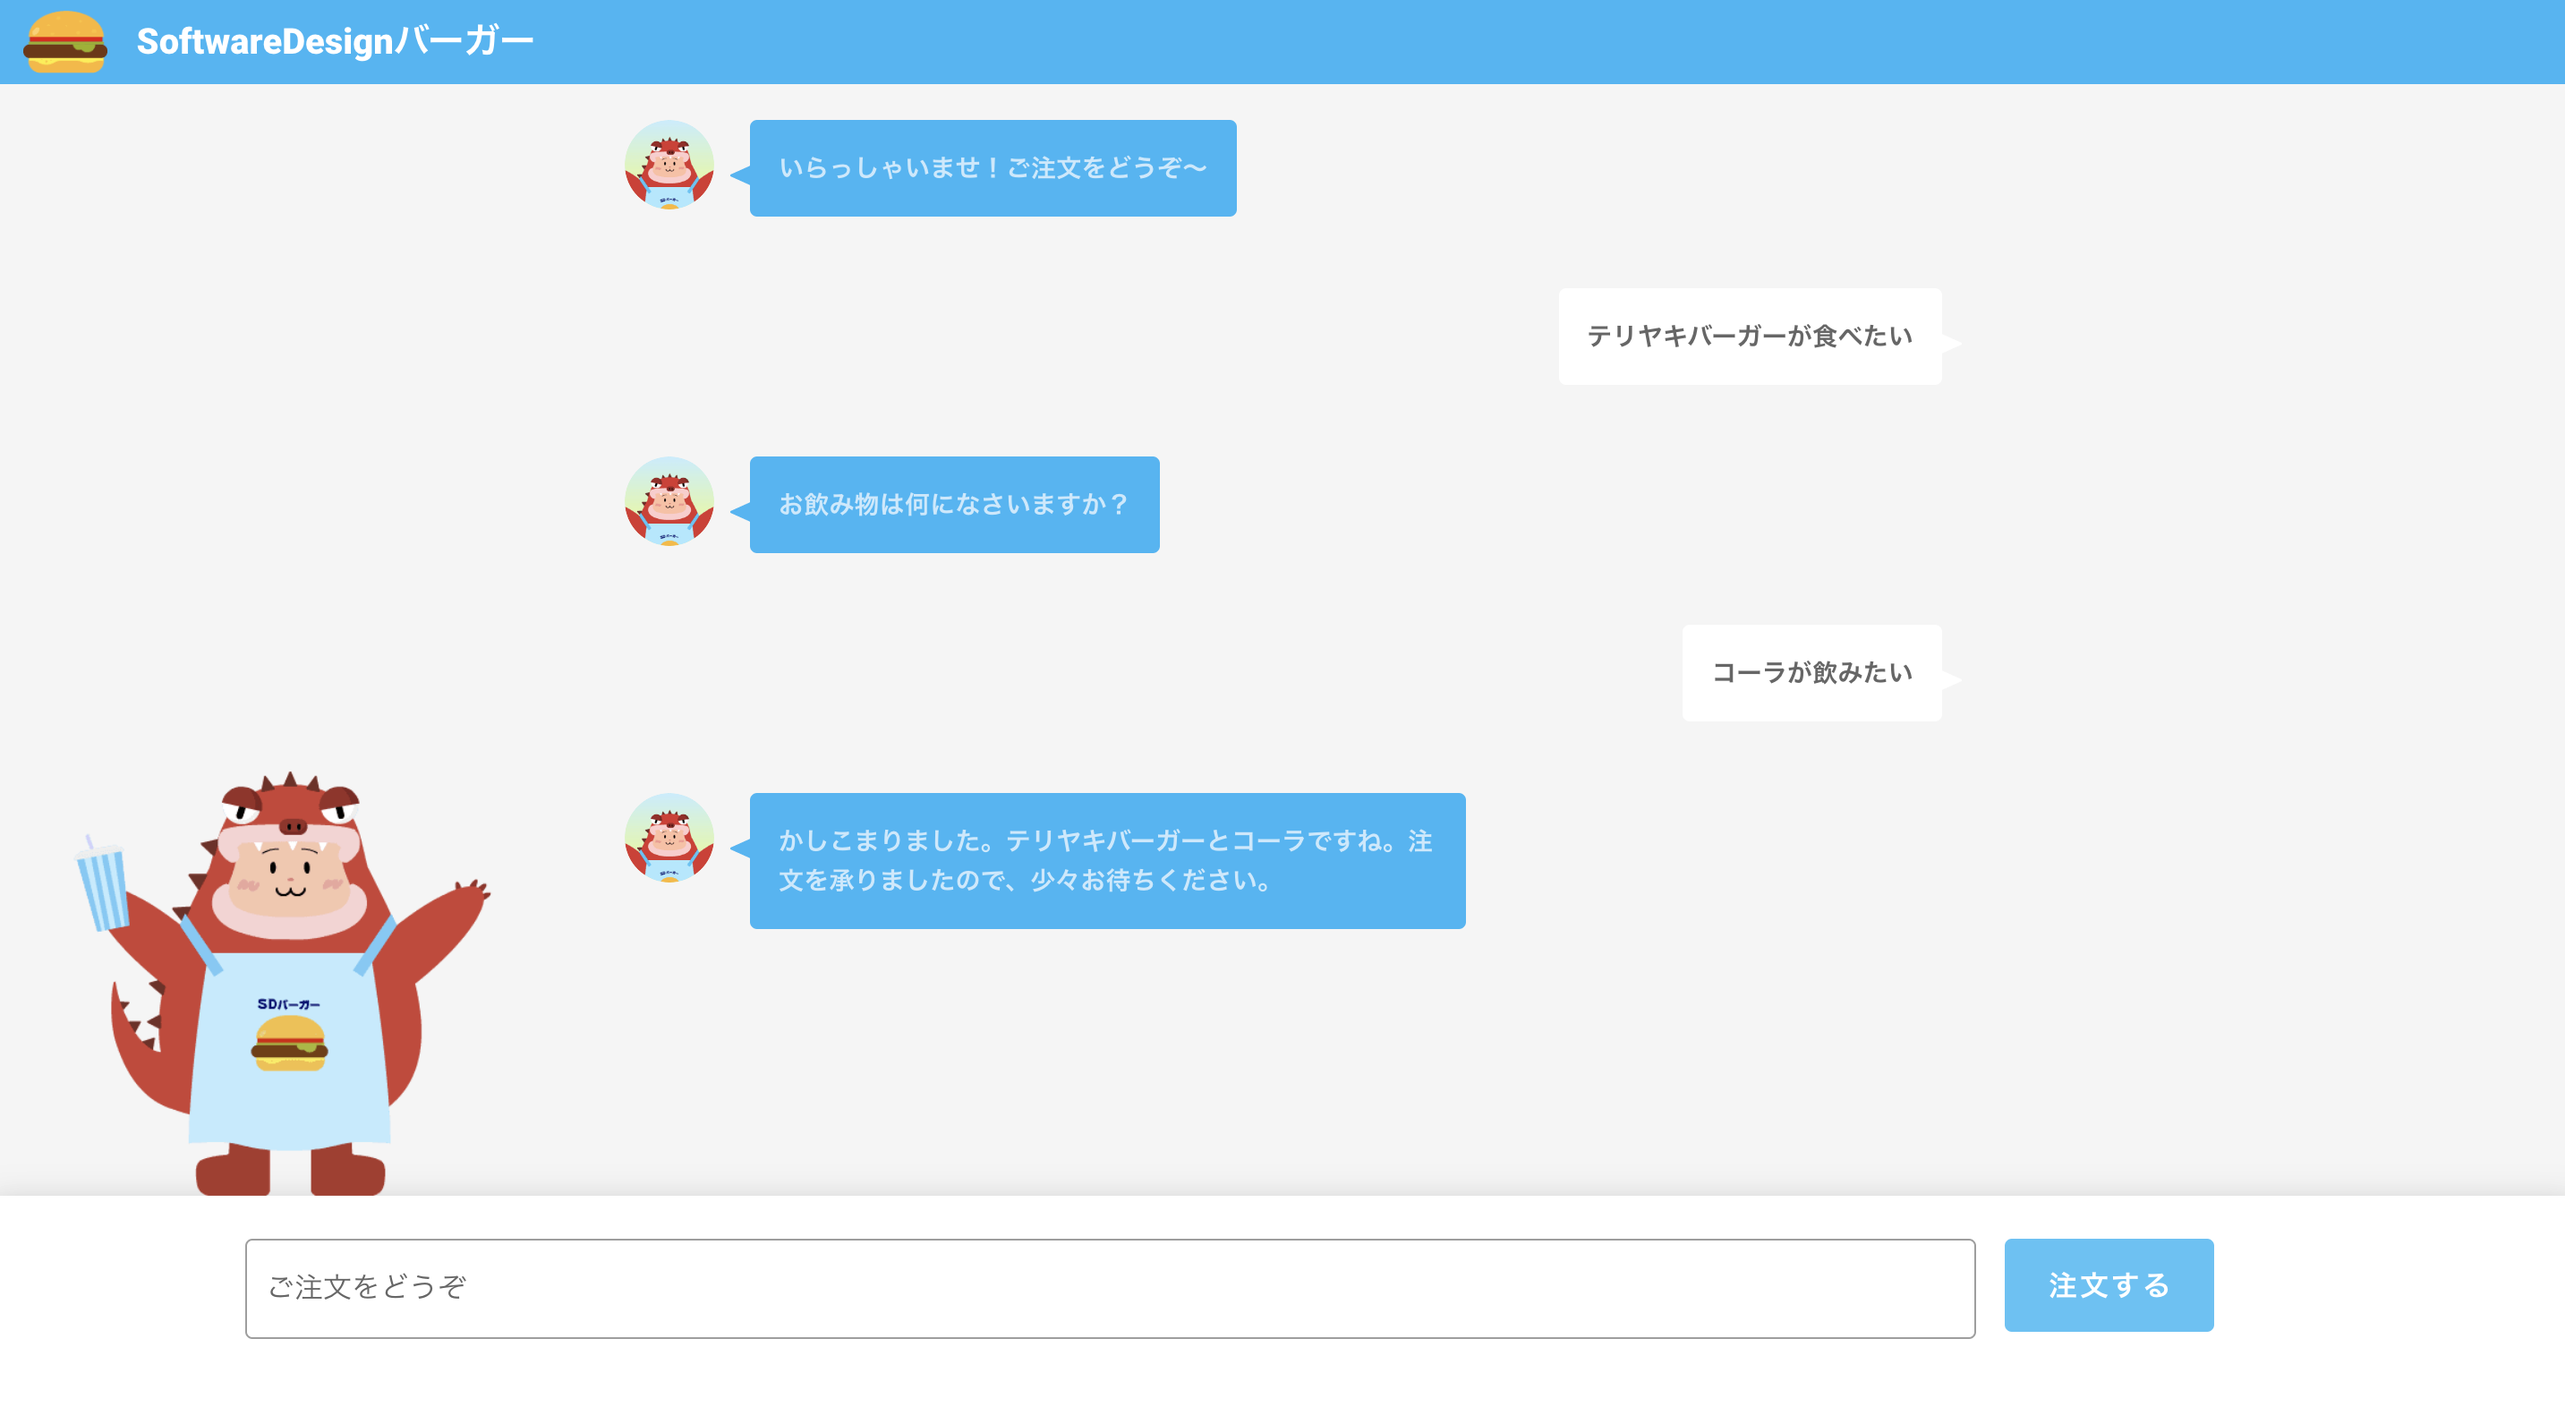
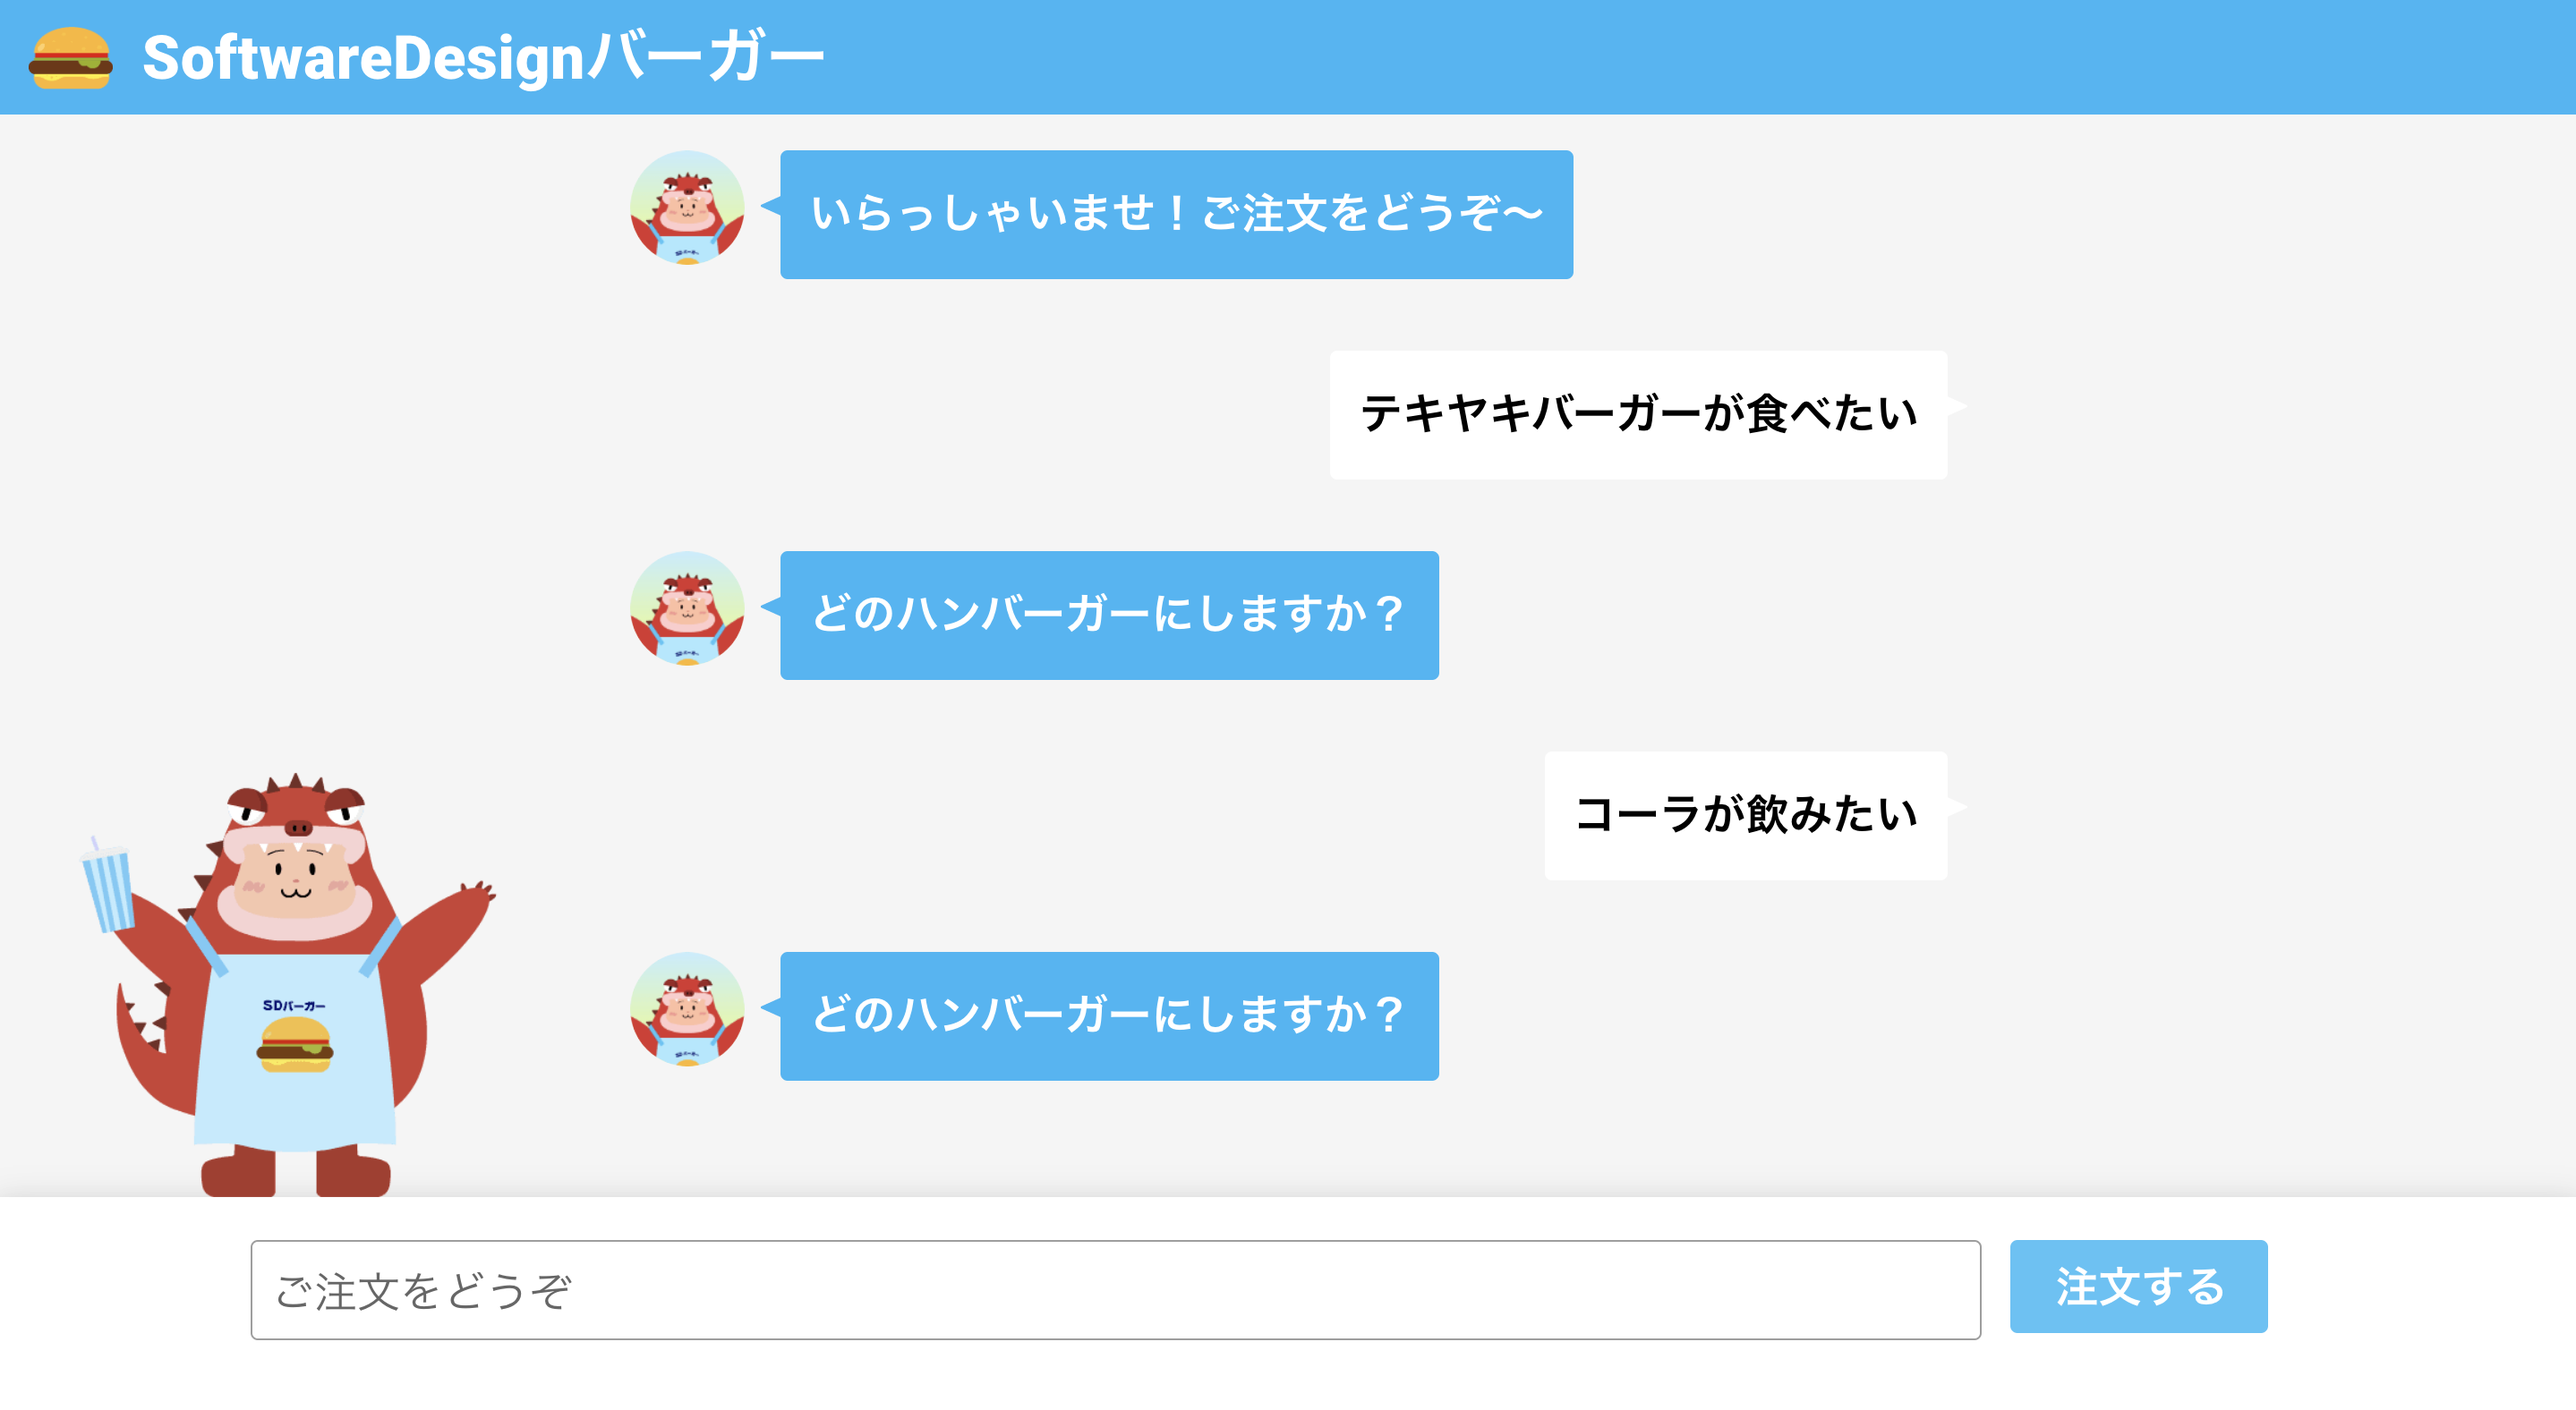
フォントサイズ変更関連

diff --git a/src/App.vue b/src/App.vue
@@ -2,27 +2,29 @@
   <v-app>
     <v-app-bar
       color="light-blue lighten-1"
-      dense
       dark
       fixed
       elevation="0"
     >
       <img src="../public/img/hamburger.png" alt="ロゴ" height="35px" class="mr-4">
-      <v-toolbar-title class="font-weight-black">SoftwareDesignバーガー</v-toolbar-title>
+      <v-toolbar-title class="font-weight-black text-h4">SoftwareDesignバーガー</v-toolbar-title>
     </v-app-bar>
     <v-main class="d-flex flex-column mainContainer">
         <v-sheet color="grey lighten-4" width="100vw">
-          <v-container class="messageContainer px-8 pt-12" :style="`height: calc(100vh - ${computeInputHeight});`">
+          <v-container class="messageContainer px-8 pt-16" :style="`height: calc(100vh - ${computeInputHeight});`">
             <transition-group tag="div" name="slide" class="messageWrapper">
-              <div v-for="item in dispMessages" :key="item.id" >
+              <div
+                v-for="item in dispMessages"
+                :key="item.id"
+              >
                 <div class="d-flex justify-end">
                   <v-card
                     v-if="item.userMessage"
                     class="mt-5 mb-5 rightBalloon"
-                    max-width="400"
+                    max-width="500"
                     elevation="0"
                   >
-                    <v-card-text class="font-weight-black">
+                    <v-card-text class="black--text">
                       {{ item.userMessage }}
                     </v-card-text>
                   </v-card>
@@ -30,7 +32,7 @@
                 <div class="d-flex justify-start">
                   <v-avatar
                     color="transparent"
-                    size="50"
+                    size="64"
                     class="mt-5 mr-5"
                   >
                     <img
@@ -42,12 +44,12 @@
                   <v-card
                     v-if="item.botMessage"
                     class="mt-5 mb-5 leftBalloon"
-                    max-width="400"
+                    max-width="500"
                     color="light-blue lighten-1"
                     elevation="0"
                     dark
                   >
-                    <v-card-text class="font-weight-black">
+                    <v-card-text class="white--text">
                       {{ item.botMessage }}
                     </v-card-text>
                   </v-card>
@@ -75,7 +77,7 @@
               :class="{'alignRight': ['xs', 'sm'].includes($vuetify.breakpoint.name)}"
             >
               <v-btn
-                class="ml-4 font-weight-black"
+                class="ml-4 font-weight-black text-h5"
                 color="light-blue lighten-2"
                 @click="sendMessage()"
                 x-large
@@ -209,6 +211,20 @@ export default {
 .rightBalloon::before {
   background-image: url('../public/img/right-balloon.svg');
   right: -12px;
+}
+.v-card__text {
+  font-weight: 900 !important;
+  font-size: 1.5rem !important;
+  line-height: 2.5rem !important;
+}
+/* 入力フォーム */
+.v-input input {
+  font-size: 1.5rem !important;
+}
+.v-application--is-ltr .v-text-field .v-label {
+  font-size: 1.5rem;
+  line-height: 1.5rem;
+  height: 1.5rem;
 }
 /* アニメーション */
 .slide-enter-active, .slide-leave-active {
